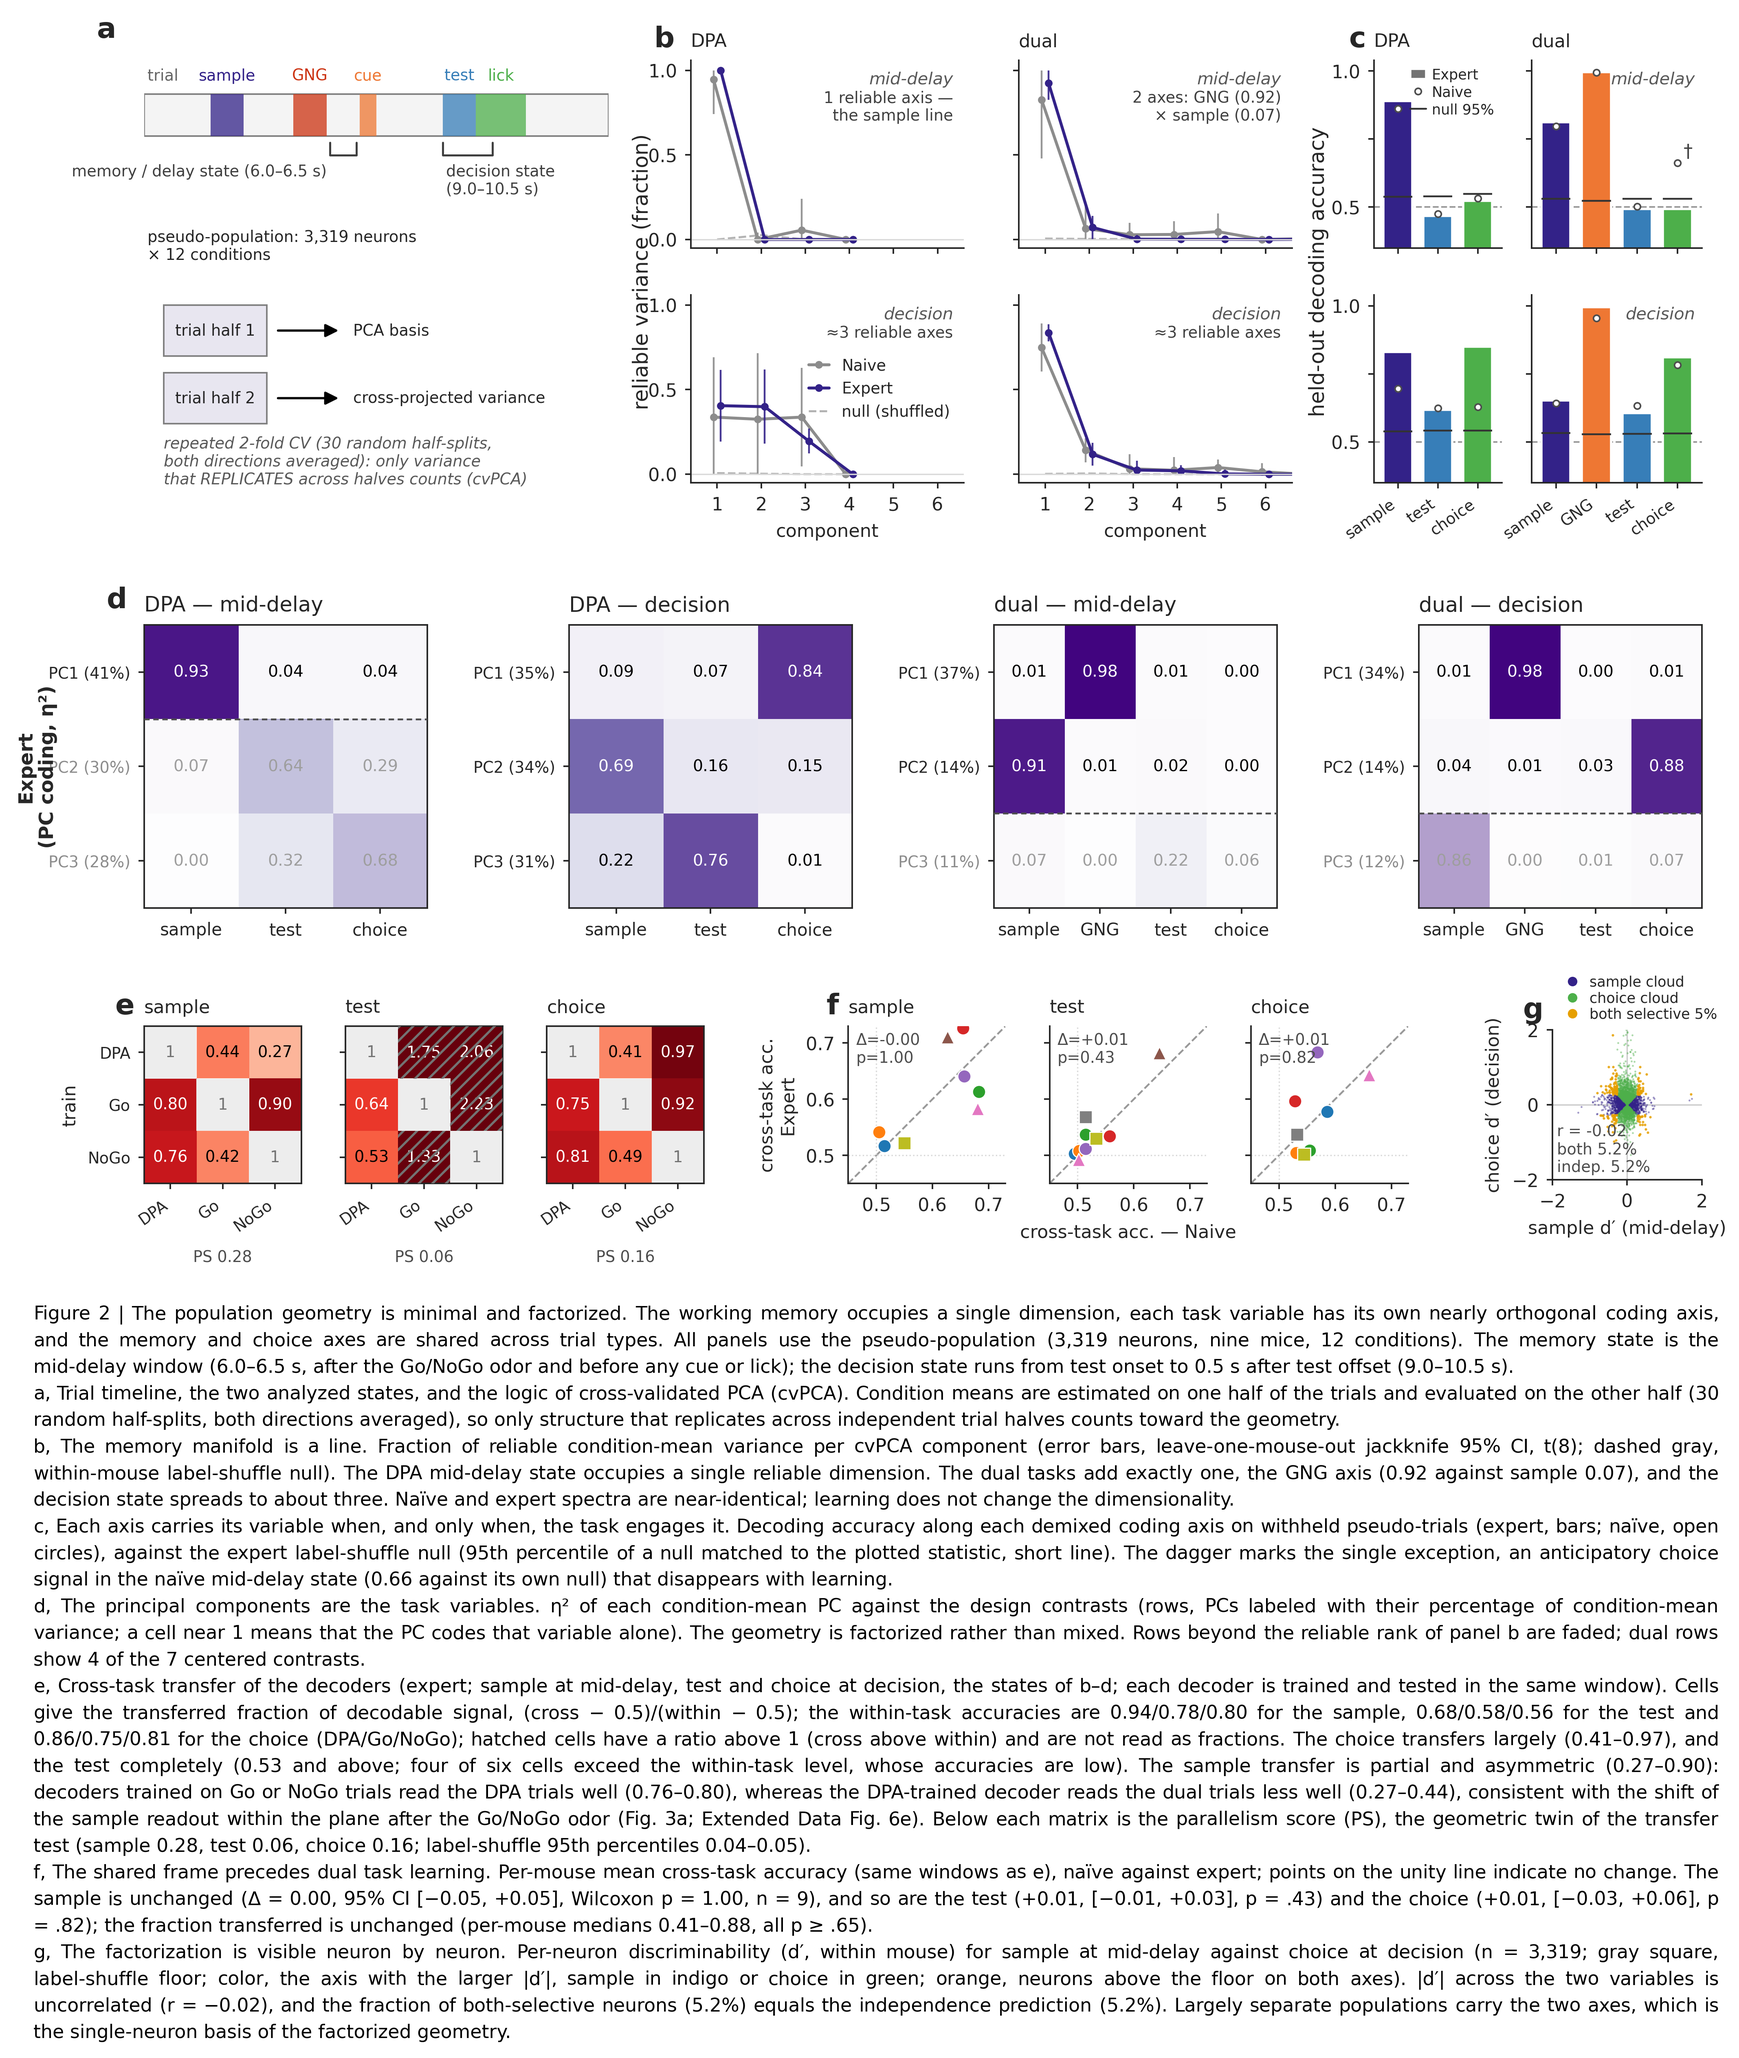
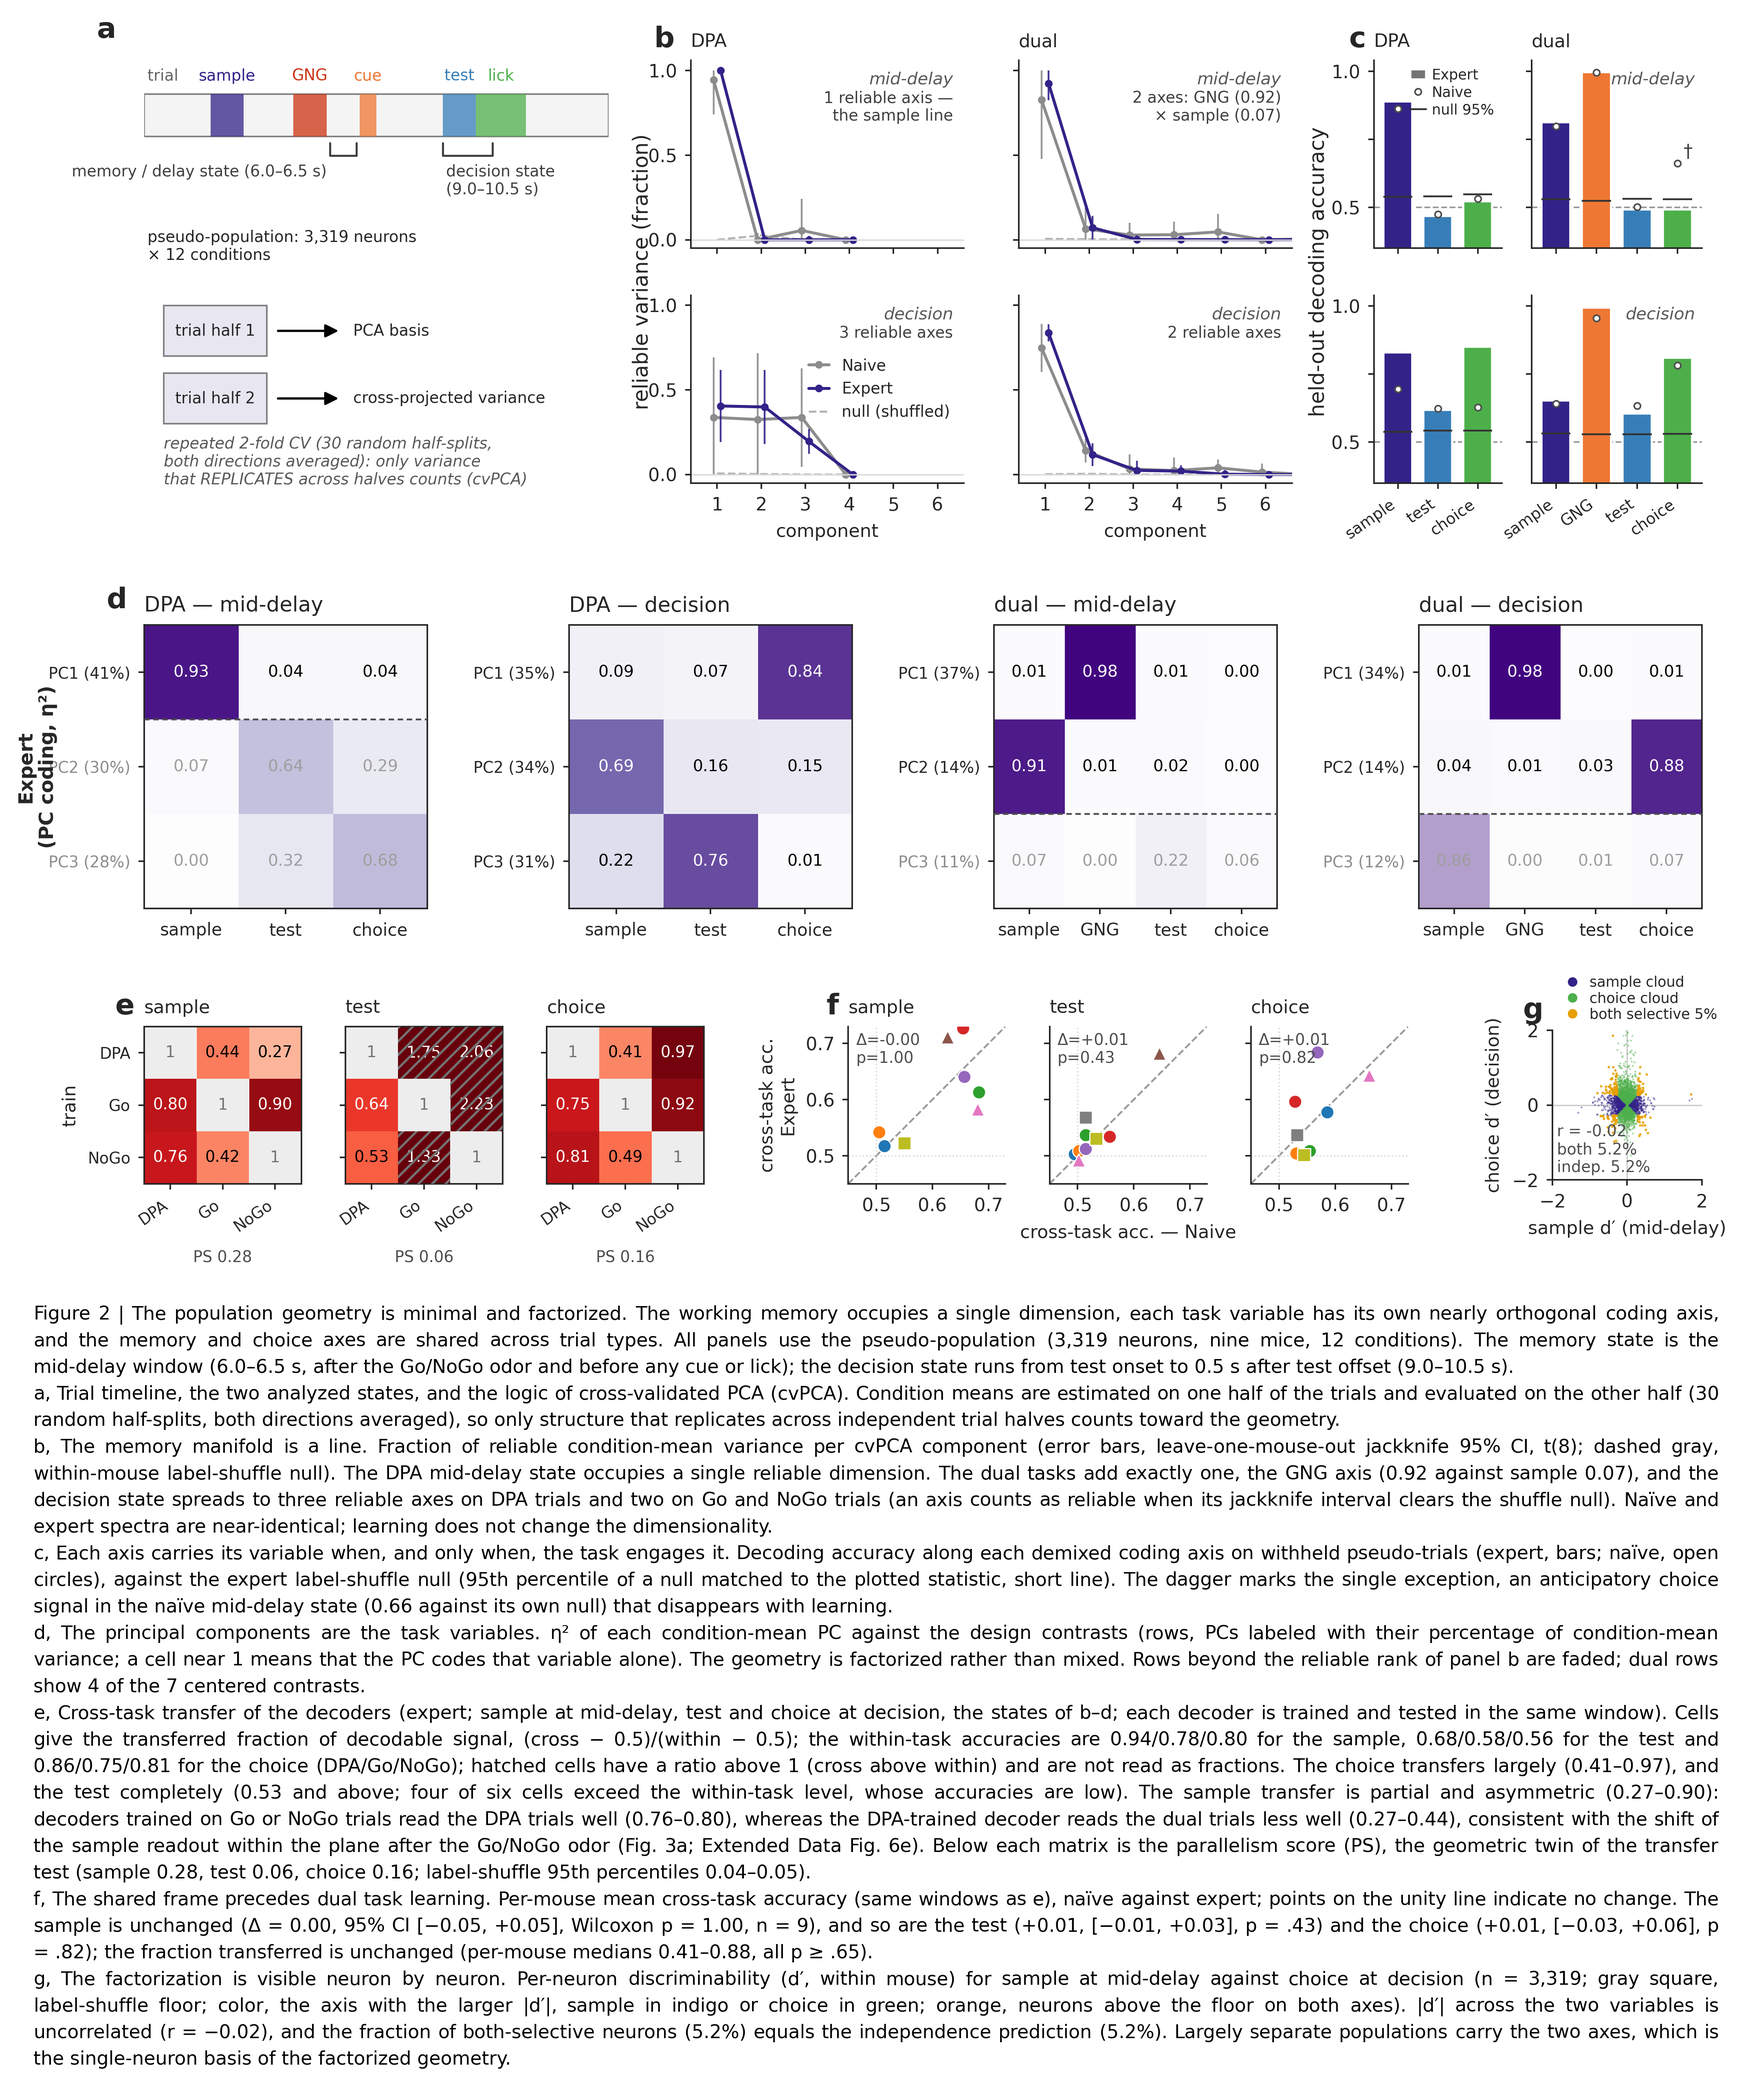
Align the draft with the figures: two stale numbers, and count the reliable axes from data
Audit: re-ran all five mains and compared every printed statistic with the Results text and legends.
Everything matched except three items:
- section 2's decision-period reliable-variance fractions were pre-flip (0.66/0.17/0.17 and
  0.61/0.30/0.05); they are 0.41/0.40/0.20 on DPA trials and 0.84/0.12/0.02 on Go and NoGo trials;
- section 3's pooled choice x GNG cosine read 0.42 where the figure prints 0.43;
- Fig 2b's '~3 reliable axes' was hardcoded on both decision columns. It is now counted from the
  cache (an axis is reliable when its jackknife interval clears the shuffle null), giving 3 on DPA
  trials and 2 on dual trials, and section 2 plus the legend say that instead of 'about three'.
Fig 2 re-rendered and re-exported; draft banner v12.26; artifacts republished; doc and memory updated.

Claude-Session: https://claude.ai/code/session_01PzGzWMKHPqqyp4poHedntF

diff --git a/pca/fig_dimensionality_main.py b/pca/fig_dimensionality_main.py
@@ -233,8 +233,14 @@ def panelB_sets(fig, gsB2):
                 _fd = np.asarray(SJ[('dual', 'md', 'Expert')]['frac'])   # drawn values, not hardcoded
                 ax.text(0.96, 0.84, f'2 axes: GNG ({_fd[0]:.2f})\n× sample ({_fd[1]:.2f})',
                         transform=ax.transAxes, ha='right', va='top', fontsize=PS*6.0, color='0.25')
-            if r == 1:                               # decision: ~3 reliable axes
-                ax.text(0.96, 0.84, '≈3 reliable axes', transform=ax.transAxes,
+            if r == 1:                               # decision: COUNT the reliable axes (Leon 2026-09-09)
+                # was a hardcoded "≈3 reliable axes" on both columns; under the canonical axes only the
+                # DPA column has three. An axis counts as reliable when its jackknife lower bound clears
+                # the shuffle null, the same comparison the error bars and the dashed null line draw.
+                _e = SJ[(ts, 'decision', 'Expert')]; _nl = np.clip(np.asarray(SN[(ts, 'decision')], float), 0, None)
+                _lo = np.asarray(_e['lo'], float); _m = min(len(_lo), len(_nl))
+                _nax = int(sum(_lo[i] > _nl[i] for i in range(_m)))
+                ax.text(0.96, 0.84, f'{_nax} reliable axes', transform=ax.transAxes,
                         ha='right', va='top', fontsize=PS*6.0, color='0.25')
             if r == 1 and c == 0:
                 ax.legend(frameon=False, fontsize=PS*6.0, handlelength=1.3, loc='center right')
@@ -605,7 +611,8 @@ if CDEC:
         'component (error bars, leave-one-mouse-out jackknife 95% CI, t(8); dashed gray, within-mouse '
         'label-shuffle null). The DPA mid-delay state occupies a single reliable dimension. The dual '
         'tasks add exactly one, the GNG axis (0.92 against sample 0.07), and the decision '
-        'state spreads to about three. Naïve and expert spectra are near-identical; learning does not '
+        'state spreads to three reliable axes on DPA trials and two on Go and NoGo trials (an axis counts as '
+        'reliable when its jackknife interval clears the shuffle null). Naïve and expert spectra are near-identical; learning does not '
         'change the dimensionality.',
         'c, Each axis carries its variable when, and only when, the task engages it. Decoding accuracy along each demixed coding axis on withheld pseudo-trials (expert, bars; naïve, open circles), against the expert label-shuffle null (95th percentile of a null matched to the plotted statistic, short line). The dagger marks the single exception, an anticipatory choice signal in the naïve mid-delay state (0.66 against its own null) that disappears with learning.',
         'd, The principal components are the task variables. η² of each condition-mean PC against the '

diff --git a/docs/paper/results_draft.md b/docs/paper/results_draft.md
@@ -1,5 +1,7 @@
 # Compositional learning by geometric editing — main paper (draft v12)
 
+> **v12.26 (2026-09-09): draft↔figure alignment audit.** Re-ran all five mains and checked every printed statistic against the text and legends. Everything matched except three items, now fixed: (i) §2's decision-period reliable-variance fractions were pre-flip (0.66/0.17/0.17 and 0.61/0.30/0.05) — they are 0.41/0.40/0.20 on DPA trials and 0.84/0.12/0.02 on Go and NoGo trials; (ii) §3's pooled choice × GNG cosine read 0.42, the figure prints 0.43; (iii) Fig. 2b's "≈3 reliable axes" was HARDCODED on both decision columns — it is now COUNTED from the data (an axis is reliable when its jackknife interval clears the shuffle null), which gives 3 on DPA trials and 2 on Go and NoGo trials, and §2 plus the legend now say that instead of "about three".
+
 > **v12.25 (2026-09-09): the Go/NoGo trials are no longer called "distractors"** (Leon: "stop calling go and nogo distractors — gng instead of dist, go/nogo instead of distractor"). Prose now says the **Go/NoGo odor / Go/NoGo task**, and **GNG** for the code, axis and compact labels; every figure label that read `dist` reads **GNG**, and the trial-timeline event in Figs 2a/3a is **GNG**. Cache keys are deliberately untouched (`dist` in PM_PLANE/E_VARS, `gng` in the dPCA and CCGD caches) — the scripts map key → label at draw time, so no pickle is invalidated. Three uses of "distractor" are kept on purpose: the two sentences about distractors in the CITED literature (Jacob 2014; Parthasarathy 2017) and the Jacob 2014 reference title. The banners below are a changelog and keep their original wording. Fig. 1a's first slot is now a drawn head-fixed-mouse portrait (`overlaps/mouse_cartoon.py`), replacing the traced line-art raster.
 
 > **v12.24 (2026-09-09): NoGo ARM OF THE COUPLING = CEILING EFFECT, NOT A COST** (Leon: "I would have expected a negative correlation"). New `overlaps/exp_push_nogo_ceiling.py` (gallery controls/push_nogo_ceiling.png): the ρ = +0.65 ΔNoGo-vs-Δdepth trend is carried by the deep pushers having already withheld correctly on 82–95% of naïve NoGo trials (naïve NoGo accuracy vs ΔNoGo ρ = −0.87, p = .002; partial rank correlation of Δdepth with ΔNoGo controlling for it +0.27, p = .49; depth and NoGo accuracy unrelated at either stage, ρ +0.30 / +0.13; relative gain ρ +0.22, Δlogit +0.35). §4, the Fig. 4c legend and Methods now say so; the "possible cost, cannot be settled" wording is gone.
@@ -526,8 +528,7 @@ By this measure the memory occupied a single dimension. During the delay of DPA 
 component accounted for all of the reliable variance in the population state (Fig. 2b; fraction
 1.00, 95% CI [0.98, 1.00], jackknife across mice). Go and NoGo trials added one further
 dimension at the same moment (0.92 + 0.07 [0.01, 0.13]), which we identify below as the
-GNG axis, and the decision period spread the state over about three (reliable-variance
-fractions 0.66/0.17/0.17 on DPA trials and 0.61/0.30/0.05 on Go and NoGo trials). The same
+GNG axis, and the decision period spread the state over three reliable axes on DPA trials (reliable-variance fractions 0.41/0.40/0.20) and two on Go and NoGo trials (0.84/0.12), where the GNG axis still carried most of the reliable variance. The same
 picture held animal by animal, on each mouse's own simultaneously recorded neurons. Wherever
 the reliable variance could be resolved, one component dominated the delay spectrum (Extended
 Data Fig. 3c; median top-1 fraction 0.90 naïve, 0.93 expert, n = 7 resolvable mice per stage),
@@ -642,7 +643,7 @@ trial as well as a plane fitted in that context for the sample (Extended Data Fi
 
 The same pattern held in every animal (Extended Data Fig. 6g), and it carried the one change
 with learning in this section. The GNG code's plane-only accuracy rose (0.58 → 0.65, p = .027, 8/9 mice) while its full-population decodability rose less reliably (0.79 → 0.86, p = .13), so that the share of the GNG signal carried by the plane grew from 0.28 to 0.37 (chance-referenced, 7/9 mice, p = .16): animal by animal the GNG code moved toward the plane, a change we quantify in the next section. The sample axis
-lay at the level expected for independent directions relative to the choice axis (Fig. 3d; |cos| = 0.06 in naïve and 0.08 in expert mice) and to the GNG axis (0.09; same analysis, Methods), against a floor of ≈0.05 for random directions in these populations, whereas the overlap between choice and GNG was partial and growing (0.29 → 0.42 after correction for split-half reliabilities, pooled; the per-animal raw counterpart is tested in Fig. 4a).
+lay at the level expected for independent directions relative to the choice axis (Fig. 3d; |cos| = 0.06 in naïve and 0.08 in expert mice) and to the GNG axis (0.09; same analysis, Methods), against a floor of ≈0.05 for random directions in these populations, whereas the overlap between choice and GNG was partial and growing (0.29 → 0.43 after correction for split-half reliabilities, pooled; the per-animal raw counterpart is tested in Fig. 4a).
 
 Finally, the plane was the same plane before and after learning (Fig. 3e). Decoder axes trained in one stage read the withheld activity of the other stage at 90% of the within-stage ceiling for the sample and 72% for the choice (transfer/within 0.90 and 0.72, robust to scoring both stages under one common scaling), and within each animal the transfer was 0.86 of the within-stage ceiling for the sample and 0.59 for the choice. Construction could
 still have survived the dimension count by rotating the memory and choice axes into a new
@@ -1105,7 +1106,7 @@ counts toward the geometry.
 b, The memory manifold is a line. Fraction of reliable condition-mean variance per cvPCA component
 (error bars, leave-one-mouse-out jackknife 95% CI, t(8); dashed gray, within-mouse label-shuffle
 null). The DPA mid-delay state occupies a single reliable dimension. The dual tasks add exactly one,
-the GNG axis (0.92 against sample 0.07), and the decision state spreads to about three. Naïve
+the GNG axis (0.92 against sample 0.07), and the decision state spreads to three reliable axes on DPA trials and two on Go and NoGo trials (an axis counts as reliable when its jackknife interval clears the shuffle null). Naïve
 and expert spectra are near-identical; learning does not change the dimensionality.
 
 c, Each axis carries its variable when, and only when, the task engages it. Decoding accuracy

diff --git a/docs/pca/dimensionality.md b/docs/pca/dimensionality.md
@@ -1,5 +1,10 @@
 # Honest dimensionality — cvPCA + shattering + PC coding (Fig 2)
 
+> **2026-09-09 — Fig 2b's decision annotation is DATA-DRIVEN.** It used to read a hardcoded "≈3 reliable axes"
+> on both decision columns; it now counts the components whose jackknife lower bound clears the shuffle null —
+> **3 on DPA trials, 2 on dual trials** (Expert). §2 and the Fig 2 legend follow. Fractions: DPA 0.41/0.40/0.20,
+> dual 0.84/0.12/0.02; the pre-flip 0.66/0.17/0.17 and 0.61/0.30/0.05 in older text were stale.
+
 > **NAMING CANON since 2026-09-09 (Leon).** The Go/NoGo trials are NOT called "distractors" any more: prose says the
 > **Go/NoGo odor** / **Go/NoGo task**, and **GNG** for the code, axis and compact labels; every figure label that read
 > `dist` now reads **GNG**, and the trial-timeline event in Figs 2a/3a is **GNG**. CACHE KEYS ARE UNCHANGED — `dist`
